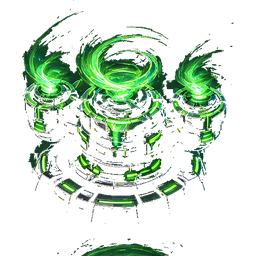
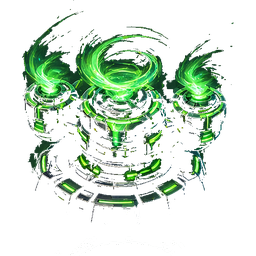
refactor: 타일 사이즈 72px 확대 + 타워 자산 정렬 정리
- TILE_SIZE 40→72 (원본 자산 디테일 살리기), 컨테이너에 따라 mapScale로 자동 축소
- 타워/적 스프라이트 크기를 TILE_SIZE 비율로 표현하여 자동 스케일링
- 인벤토리 그리드 auto-fill 적용 (슬롯 최소폭 = TILE_SIZE)
- 레거시 모바일 원형 배치 메뉴 제거 (인벤토리→타일 흐름으로 일원화)
- water/t1, t2, electric/t1, t2 캔버스 중앙 정렬 (픽셀 시프트만, 품질 보존)
- wind/t2, electric/t2 하단 ghost 컴포넌트 제거
- defense/t3, speed/t2, speed/t3 ghost 잔여물 정리

Changed region(s): [[0.2812, 0.9375, 0.6875, 1.0], [0.6875, 0.9375, 0.7188, 0.9688], [0.5312, 0.8125, 0.5625, 0.8438]]

diff --git a/js/components/GameMap.jsx b/js/components/GameMap.jsx
@@ -306,7 +306,8 @@ const GameMap = ({
                             const elementInfo = getElementInfo(tower.element);
                             const displayRange = tower.effectiveRange || tower.range;
                             const spriteUrl = spritesReady && typeof TowerSprite !== 'undefined' ? TowerSprite.getUrl(tower.element, tower.tier) : null;
-                            const SPRITE_SIZE = tower.tier === 4 ? 56 : tower.tier === 3 ? 50 : tower.tier === 2 ? 44 : 40;
+                            // 티어별 비율로 표현 — TILE_SIZE 변경 시 자동 비례
+                            const SPRITE_SIZE = TILE_SIZE * (tower.tier === 4 ? 1.4 : tower.tier === 3 ? 1.25 : tower.tier === 2 ? 1.1 : 1.0);
                             const isCombineResult = combinePreview && combinePreview.kind === 'tower' && combinePreview.resultId === tower.id;
                             const isCombineConsumed = combinePreview && combinePreview.kind === 'tower' && combinePreview.consumedIds.includes(tower.id);
                             return (
@@ -469,12 +470,15 @@ const GameMap = ({
                             const enemyUrl = typeof EnemySprite !== 'undefined' ? EnemySprite.getUrl(enemy.type) : null;
                             // 적 크기 — boss는 크게, 일반은 기본, fast는 약간 작게
                             // 합의 10: W5 미니보스(elite)는 일반 elite 보다 크게
-                            const SIZE = enemy.type === 'boss' ? 48
-                                : enemy.isMiniboss ? 44
-                                : enemy.type === 'elite' ? 38
-                                : enemy.type === 'fast' ? 26
-                                : enemy.type === 'splitter' ? 28
-                                : 32;
+                            // TILE_SIZE 비율로 표현 → TILE_SIZE 변경 시 자동 비례
+                            const SIZE = TILE_SIZE * (
+                                enemy.type === 'boss' ? 1.2
+                                : enemy.isMiniboss ? 1.1
+                                : enemy.type === 'elite' ? 0.95
+                                : enemy.type === 'fast' ? 0.65
+                                : enemy.type === 'splitter' ? 0.7
+                                : 0.8
+                            );
                             const isEnemySelected = selectedEnemyId === enemy.id;
                             return (
                                 <div

diff --git a/js/components/ControlPanel.jsx b/js/components/ControlPanel.jsx
@@ -350,10 +350,11 @@ const InventoryPanel = ({
                     </button>
                 </div>
 
-                {/* 인벤토리 그리드 - 15열 고정 (타워 2행, 서포트 1행) */}
+                {/* 인벤토리 그리드 — 슬롯 최소폭을 TILE_SIZE로 잡아 맵 위 타워와 사이즈 매치.
+                    컨테이너 폭에 따라 컬럼 수 자동 조정 (auto-fill). */}
                 <div className="p-2">
                     {activeTab === 'tower' ? (
-                        <div style={{ display: 'grid', gridTemplateColumns: 'repeat(15, minmax(0, 1fr))', gap: '2px' }}>
+                        <div style={{ display: 'grid', gridTemplateColumns: `repeat(auto-fill, minmax(${TILE_SIZE}px, 1fr))`, gap: '2px' }}>
                             {Array.from({ length: ECONOMY.maxInventory }, (_, i) => {
                                 const neon = sortedInventory[i];
                                 if (neon) {
@@ -384,7 +385,7 @@ const InventoryPanel = ({
                             })}
                         </div>
                     ) : (
-                        <div style={{ display: 'grid', gridTemplateColumns: 'repeat(15, minmax(0, 1fr))', gap: '2px' }}>
+                        <div style={{ display: 'grid', gridTemplateColumns: `repeat(auto-fill, minmax(${TILE_SIZE}px, 1fr))`, gap: '2px' }}>
                             {Array.from({ length: ECONOMY.maxSupportInventory }, (_, i) => {
                                 const support = sortedSupportInventory[i];
                                 if (support) {

diff --git a/js/hooks/useDragAndDrop.jsx b/js/hooks/useDragAndDrop.jsx
@@ -65,11 +65,9 @@ const useDragAndDrop = (gameState, inventoryState, mapScale = 1) => {
             return;
         }
 
-        // 기존 모바일 배치 모드
-        if (isPath || hasTower || hasSupportTower) { setPlacementMode(null); return; }
-        setPlacementMode({ gridX, gridY, step: 'element', element: null });
-        clearAllSelections();
-    }, [pathData, towers, supportTowers, selectedTowerForPlacement, setTowers, setInventory, setSupportTowers, setSupportInventory, updateStats, clearAllSelections]);
+        // 빈 타일 클릭 시 별도 UI 띄우지 않음 (구 모바일 원형 배치 메뉴 제거).
+        // 타워 배치는 인벤토리 슬롯 클릭 → selectedTowerForPlacement 활성화 후 타일 클릭 흐름으로만 처리.
+    }, [pathData, towers, supportTowers, selectedTowerForPlacement, setTowers, setInventory, setSupportTowers, setSupportInventory, updateStats]);
 
     const handleElementSelect = useCallback((element) => {
         if (!placementMode) return;

diff --git a/js/domain/config/constants.js b/js/domain/config/constants.js
@@ -2,7 +2,9 @@
 // 모든 매직 넘버를 구조화된 설정으로 관리
 
 // ===== 그리드 설정 =====
-const TILE_SIZE = 40;
+// 원본 자산(타워 256px, 적 128px)의 디테일이 살아나도록 타일 사이즈를 1.8배로 확대.
+// 컨테이너가 좁으면 mapScale(App.jsx)이 자동으로 축소 — 화면상 크기는 모니터에 맞춰짐.
+const TILE_SIZE = 72;
 const GRID_WIDTH = 16;
 const GRID_HEIGHT = 12;
 
